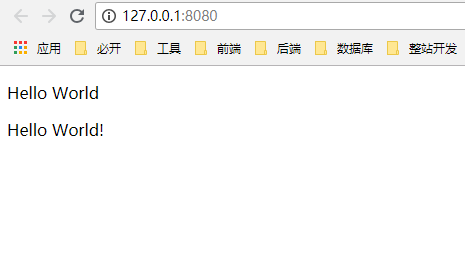
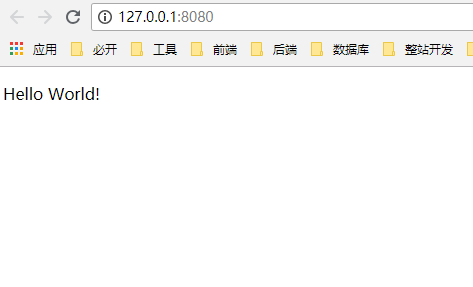
Vue 学习

diff --git a/JavaScript-library/Vue/README.md b/JavaScript-library/Vue/README.md
@@ -213,29 +213,53 @@ new Vue({
 
 &emsp;如果 Vue 仅仅是只有 `template` 这个模板装载，那么它跟 jQuery 就显得没多大差别了，下面我们使用下 Vue 的 `data` 进行数据渲染：
 
+> index.html
+
 ```
-<script>
-  new Vue({
-    // el：发生行为的目的地，即我们的挂载点
-    el: "#app",
-    /*
-      * template：模板，即我们要渲染进挂载点的页面标签。
-      * 最外一层必须有一层包裹，例如 <div> 
-      */
-    template: `
-        <div>
-          <p>Hello World</p>
-          <p>{{ text }}</p>
-        </div>
-    `,
-    data: function() {
-      return {
-        // template 中要使用的数据
-        text: 'Hello World!'
+<!DOCTYPE html>
+<html lang="en">
+
+<head>
+  <meta charset="UTF-8">
+  <meta name="viewport" content="width=device-width,initial-scale=1.0,maximum-scale=1.0,user-scalable=no">
+  <meta http-equiv="X-UA-Compatible" content="ie=edge">
+  <title>Vue学习</title>
+</head>
+
+<body>
+  <!-- 2. 挂载点。可以理解为被操作的对象 -->
+  <div id="app"></div>
+
+  <!-- 1. 开发环境版本，包含了有帮助的命令行警告 -->
+  <script src="https://cdn.jsdelivr.net/npm/vue/dist/vue.js"></script>
+
+  <!-- 生产环境版本，优化了尺寸和速度 -->
+  <!-- <script src="https://cdn.jsdelivr.net/npm/vue"></script> -->
+
+  <script>
+    new Vue({
+      // el：发生行为的目的地，即我们的挂载点
+      el: "#app",
+      /*
+        * template：模板，即我们要渲染进挂载点的页面标签。
+        * 最外一层必须有一层包裹，例如 <div> 
+        */
+      template: `
+          <div>
+            <p>{{ text }}</p>
+          </div>
+      `,
+      data: function() {
+        return {
+          // template 中要使用的数据
+          text: 'Hello World!'
+        }
       }
-    }
-  })
-</script>
+    })
+  </script>
+</body>
+
+</html>
 ```
 
 <br>
